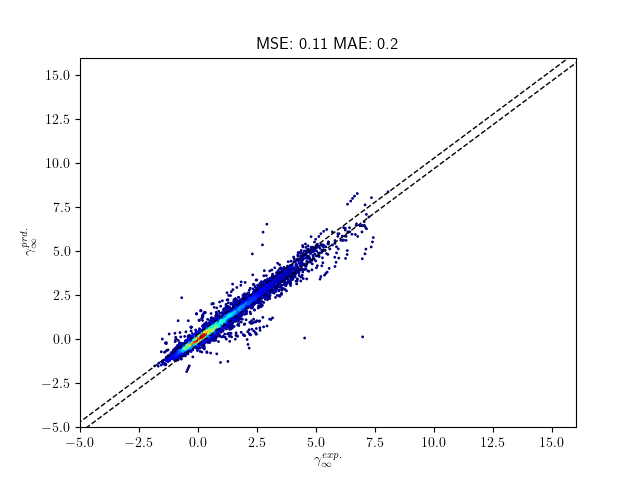
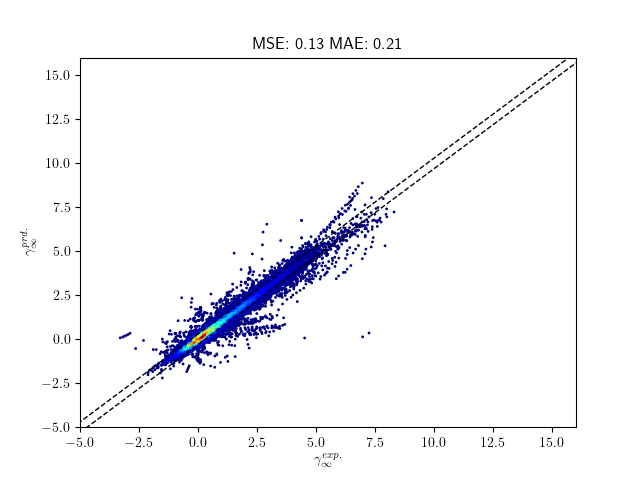
added fp 64 to nrtl head

Changed region(s): [[0.2188, 0.4062, 0.625, 0.7812], [0.375, 0.0625, 0.625, 0.125], [0.1875, 0.6875, 0.2188, 0.7188]]

diff --git a/data_processing/char_occurance.py b/data_processing/char_occurance.py
@@ -1,0 +1,133 @@
+from difflib import diff_bytes
+import numpy as np
+import pandas as pd
+from matplotlib import pyplot as plt
+import os
+import progressbar as pb
+from mpl_toolkits.axes_grid1 import host_subplot
+import mpl_toolkits.axisartist as AA
+import data_processing as dp    
+
+
+def load_data(file_path, val_type):
+
+    target_list = []
+    prediction_list = []
+    mse_list = []
+    input_list = []
+
+    file_list = os.listdir(file_path)
+    # sort
+    file_list.sort()
+    for files in file_list:
+        if files.startswith('val_target_'+ val_type + '_'):
+            target_list.append(np.load(file_path + files))
+        if files.startswith('val_predction_'+ val_type + '_'):
+            prediction_list.append(np.load(file_path + files))
+        if files.startswith('val_input_'+ val_type + '_'):
+            input_list.append(np.load(file_path + files))
+    for i in range(0, len(target_list)):
+        mse = np.mean(np.square(target_list[i] - prediction_list[i]))
+        mse_list.append(mse)
+
+    return target_list, prediction_list, mse_list, input_list
+
+file_path = ["brouwer_exp_c"]
+#file_path = ["t_cosmo"]
+vocab_path = "vocab"
+path_temp = '/home/bene/NNGamma/out_fine_tune/'
+plot_path = '/home/bene/NNGamma/src/plot/'
+
+name = 'f_t_211220-192228_220114-185541' # V2 run
+
+data_path = path_temp + name + '/'
+
+
+
+comp_list, systems, df_join = dp.get_comp_list(file_path, vocab_path)
+
+vocab_path = "../vocab/"
+vocab_dict = dp.load_vocab(vocab_path,'vocab_dict_aug')
+
+solvent_list = df_join.solvent.values
+solute_list = df_join.solute.values
+
+# coung the occurence of each char in the solvents and solutes
+solvent_count = np.zeros(len(vocab_dict))
+solute_count = np.zeros(len(vocab_dict))
+
+
+for i in range(len(solvent_list)):
+    for j in range(len(solvent_list[i])):
+        solvent_count[vocab_dict[solvent_list[i][j]]] += 1
+
+for i in range(len(solute_list)):
+    for j in range(len(solute_list[i])):
+        solute_count[vocab_dict[solute_list[i][j]]] += 1
+
+
+# plot the count of each char label with the corresponding char
+plt.figure(figsize=(20,10))
+plt.bar(np.arange(len(vocab_dict)), solvent_count, color='b', label='solvent')
+plt.bar(np.arange(len(vocab_dict)), solute_count, color='r', label='solute')
+plt.xticks(np.arange(len(vocab_dict)), list(vocab_dict.keys()))
+plt.legend()
+plt.show()
+
+# save the figure
+plt.savefig('char_occurance.png')
+
+type_list = ['0', '1', '2']
+
+val_target_0, val_predction_0, mse_list_0, val_input_0 = load_data(data_path, type_list[0])
+val_target_1, val_predction_1, mse_list_1, val_input_1 = load_data(data_path, type_list[1])
+val_target_2, val_predction_2, mse_list_2, val_input_2 = load_data(data_path, type_list[2])
+
+val_target_0 = np.concatenate(val_target_0)
+val_input_0 = np.concatenate(val_input_0)
+val_predction_0 = np.concatenate(val_predction_0)
+
+val_target_1 = np.concatenate(val_target_1)
+val_input_1 = np.concatenate(val_input_1)
+val_predction_1 = np.concatenate(val_predction_1)
+
+val_target_2 = np.concatenate(val_target_2)
+val_input_2 = np.concatenate(val_input_2)
+val_predction_2 = np.concatenate(val_predction_2)
+
+# match smiles in systems and input
+results = pd.DataFrame(columns=['solvent', 'solute', 'mse'])
+bar = pb.ProgressBar(max_value=len(val_input_0), widgets=['Gathering Results', pb.Bar('=', '[', ']'), ' ', pb.Percentage(), pb.ETA()])
+
+for i, inpt in enumerate(val_input_0):
+    bar.update(i)
+    solvent = df_join.solvent[df_join.i == inpt].values[0]
+    solute = df_join.solute[df_join.i == inpt].values[0]
+    mse = np.square(val_target_0[i] - val_predction_0[i])
+    results = results.append({'solvent': solvent, 'solute': solute, 'mse': mse}, ignore_index=True)
+
+bar.finish()
+# get the man error for each charater in solvent and solute
+
+error = [[] for _ in range(len(vocab_dict))]
+
+bar = pb.ProgressBar(max_value=len(results), widgets=['Gathering Errors', pb.Bar('=', '[', ']'), ' ', pb.Percentage(), pb.ETA()])
+for i in range(len(results)):
+    for j in range(len(vocab_dict)):
+        if list(vocab_dict.keys())[j] in results.solvent[i] or list(vocab_dict.keys())[j] in results.solute[i]: 
+            error[j].append(results.mse[i])
+
+mean_error = [np.mean(error[i]) for i in range(len(vocab_dict))]
+
+# plot the error for each char 
+
+
+plt.figure(figsize=(20,10))
+plt.bar(np.arange(len(vocab_dict)), mean_error, color='b')
+plt.xticks(np.arange(len(vocab_dict)), list(vocab_dict.keys()))
+plt.show()
+plt.savefig('char_error.png')
+
+
+
+

diff --git a/misc/result2excel2.py b/misc/result2excel2.py
@@ -38,6 +38,7 @@ name = '211223-032657' # modle with aug
 name = '211229-043706' # modle with leave n out
 name = '211231-031659' # modle with leave n out no water
 name = 'f_t_211220-192228_220112-105727'
+name = 'f_t_211220-192228_220114-185541' # V2 run
 
 path_temp = '/home/bene/NNGamma/out_fine_tune/'
 plot_path = '/home/bene/NNGamma/src/'
@@ -119,9 +120,9 @@ print("Data Loading")
 
 # save all to excel file
 
-train_df_0.to_excel(save_path + 'train_df_0.xlsx')
-train_df_1.to_excel(save_path + 'train_df_1.xlsx')
-train_df_2.to_excel(save_path + 'train_df_2.xlsx')
+train_df_0.to_excel(save_path + name + 'train_df_0.xlsx')
+train_df_1.to_excel(save_path + name + 'train_df_1.xlsx')
+train_df_2.to_excel(save_path + name + 'train_df_2.xlsx')
 # save high error data to excel
 #df = df[ np.abs(df['out']-df['target']) > 0.5]
 #df.to_excel(save_path + name + '_high_error.xlsx', index=False)

diff --git a/transprop/nn_dataloader.py b/transprop/nn_dataloader.py
@@ -89,12 +89,12 @@ class gamma_dataset(Dataset):
             rand1 = 0
             rand2 = 0
 
-        emb = np.concatenate([sos,comp_list[SMILE1,rand1], mos, comp_list[SMILE2,rand2], eos])
+        seq = np.concatenate([sos,comp_list[SMILE1,rand1], mos, comp_list[SMILE2,rand2], eos])
         
-        if len(emb) > 128:
-            emb = np.concatenate([sos,comp_list[SMILE1,0], mos, comp_list[SMILE2,0], eos])
-
-        train_data[0:len(emb)] = emb
+        if len(seq) > 128:
+            seq = np.concatenate([sos,comp_list[SMILE1,0], mos, comp_list[SMILE2,0], eos])
+        seq = seq[:128]
+        train_data[0:len(seq)]
 
         return self.train_target[index], [train_data, self.xT[index], self.smile_index[index], self.index[index]]
 

diff --git a/data_processing/make_alias_list.py b/data_processing/make_alias_list.py
@@ -13,15 +13,11 @@ import data_processing as dp
 
 def main():
     file_path = '../raw_data/'
-    folder_names = ['t_cosmo', 'brouwer_exp_c', 'inf_cosmo'] 
+    folder_names = ['t_cosmo', 'brouwer_exp_c', 'brouwer_exp'] 
     df, complete_list, solvent_indx, solute_indx = dp.load_exp_data(file_path, folder_names)
-    solvent_list = df.solvent.tolist()
-    solute_list = df.solute.tolist()
-    smile_list = np.append(solvent_list, solute_list)
 
-    smile_list = np.unique(smile_list)
-    alias_dict = augment_smile(smile_list)
-    np.save('../raw_data/alias/alias_dict_brower.npy', alias_dict)
+    alias_dict = augment_smile(complete_list.SMILE0.to_list())
+    np.save('../raw_data/alias/alias_dict_brouwer.npy', alias_dict)
 
 
 

diff --git a/plot/plot_results.py b/plot/plot_results.py
@@ -34,6 +34,7 @@ def make_historgam_delta(prediciton, target, name = '', path = '', save=False):
     plt.ylabel('count')
     plt.xlabel(r'$\Delta$ ln $\gamma_\infty$')
     plt.xlim(-2,2)
+    plt.title(r'{}'.format( '\n MSE: ' + str(MSE) + '\n MAE: ' + str(MAE) + '\n $\Delta$ ln $\gamma_\infty < 0.3$: ' + str(perc_data) + '\%'))
     #plt.title('MSE: ' + str(MSE) + ' MAE: ' + str(MAE) + ' perc_data: ' + str(perc_data))
     plt.savefig(path + 'hist/hist_delta_' + name)
     plt.rcParams['text.usetex'] = False

diff --git a/data_processing/data_processing.py b/data_processing/data_processing.py
@@ -144,10 +144,12 @@ def load_exp_data(file_path, foler_names):
             df = pd.concat([df, temp_df], ignore_index=True)
         bar.finish()
     # remove all nan rows
-    df = df.dropna()
-    df = df.reset_index(drop=True)
     if not 'i' in df.columns:
         df['i'] = 1 
+    df.i[df.i.isna()] = 0
+
+    df = df.dropna()
+    df = df.reset_index(drop=True)
 
     solvent_list = df['solvent'].drop_duplicates()
     solute_list = df['solute'].drop_duplicates()

diff --git a/transprop/minGPT.py b/transprop/minGPT.py
@@ -94,7 +94,8 @@ class NRTL_head(nn.Module):
 
     def forward(self, x, X):
 
-        x_out = torch.zeros(x.shape[0] , 1, device=self.device, requires_grad=True)
+        x = x.type(torch.float64)
+        x_out = torch.zeros(x.shape[0] , 1, device=self.device, requires_grad=True, dtype=torch.float64)
 
         G_12 = torch.exp(-x[:,0] * x[:,1])
         G_21 = torch.exp(-x[:,0] * x[:,2])

diff --git a/main_script.py b/main_script.py
@@ -139,6 +139,7 @@ def main(emb, hid_fac, nlay, nhead, drp, lr, epo, btch, data, wdecay, max_btch, 
     wandb.init(project=project, entity='bene94', name=name, config=config, resume="allow", id=config.id)
     wandb.watch(model)
     wandb.log({"xp_name": config.xp_name})
+    wandb.log({"mode": mode})
     
     print('-' * 89)
     print('Training...')
